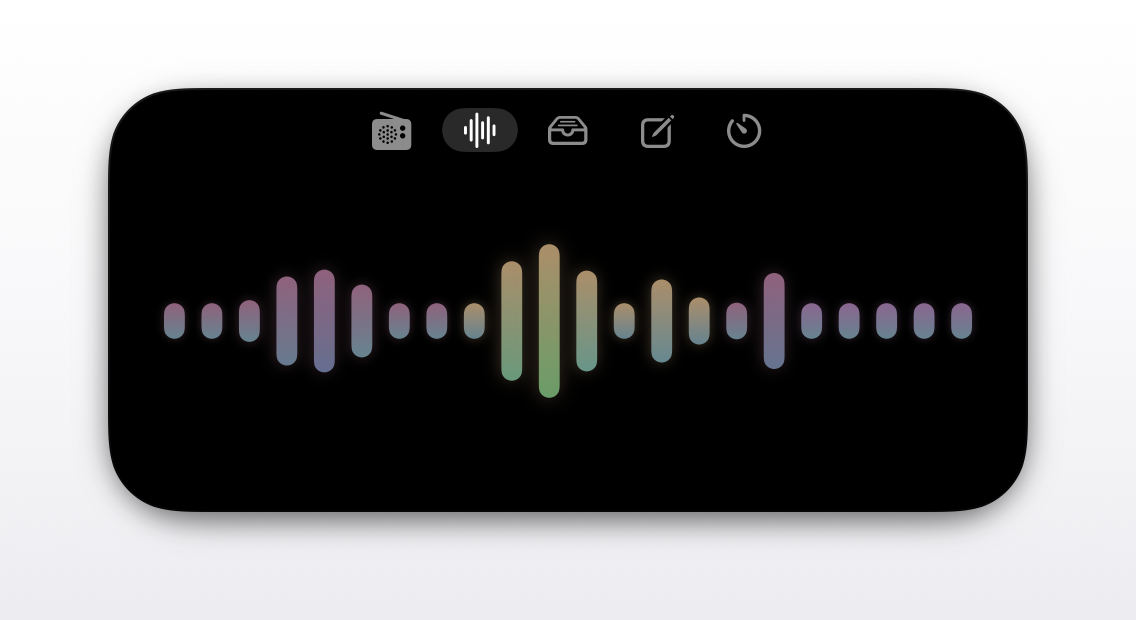
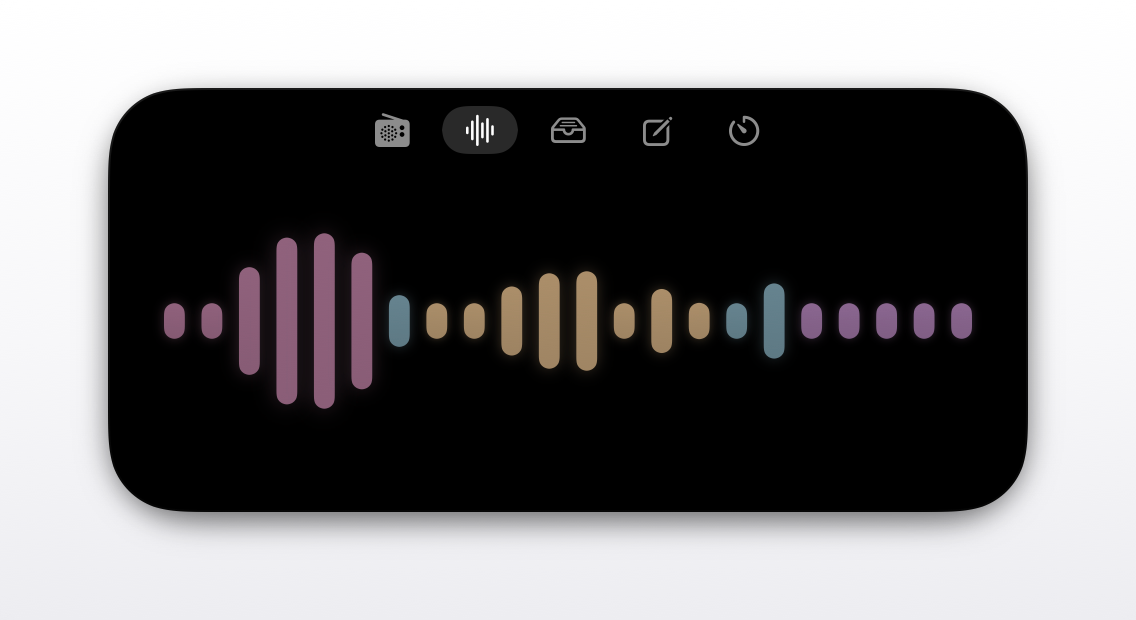
Take a bar's colour from its whole slice of sleeve, not the top half
The muting landed but the hues were still wrong, and badly: the One Piece
sleeve on Scott's phone — reds, oranges and greens — came out cyan, and Ado's
pink one came out blue.

Each bar elected two colours, one per half of its column, and drew from the
upper one. So whatever occupies the top of the artwork became the wave, and on
both of those sleeves that is sky. Running the two real covers through the
pipeline against the phone's own bars, six bars each:

  Wake up!      phone  86° 63° 33° 24° 27° 32°   (olive into orange)
                was   190° 190° 190° 190° 36° 190°
                now    80° 6° 6° 36° 36° 36°
  New Genesis   phone 316° 336° 340° 340° 336° 322°
                was   222° 222° 222° 352° 323° 323°
                now   222° 323° 323° 323° 323° 323°

One election over the whole column instead. The split was an attractive idea —
the bar mirrors its slice top to bottom — but it does not match the reference
either: a bar on the phone holds one hue from tip to foot, under 10° across its
whole height, while its saturation and light drain away. So the vertical run is
a drain, which `Bar` derives, and never a second elected colour.

Palette size stays at 4. Five and six were tried against the same two covers
and both pull Ado toward the blues and purples it does not have.

90 tests.

diff --git a/CoteDOs/NowPlaying/ArtworkColor.swift b/CoteDOs/NowPlaying/ArtworkColor.swift
@@ -518,19 +518,28 @@ enum ArtworkColor {
             return shadedStep(palette[winner].color, level: level)
         }
 
-        // Image rows run top-down, and so do the bars, so row 0 is the bar's
-        // top. Rows are derived lazily per requested count — see
-        // `CoverBarPalette`; the closure captures the finished stage-one
-        // assignment, so a row costs two vote passes, not a re-analysis.
+        // One election over the bar's *whole* column, not one per half.
+        //
+        // Splitting it was an attractive idea — the bar mirrors its slice of
+        // sleeve top to bottom — and it is wrong twice over. It hands the bar's
+        // body colour to whatever occupies the top of the artwork, so a sleeve
+        // with a sky, a letterbox or a bright title bar draws every bar in that
+        // colour: the One Piece sleeve here is red, orange and green, and it
+        // came out cyan. And it does not match the reference anyway. A bar on
+        // the iPhone holds one hue from tip to foot — measured across three
+        // sleeves, the hue moves under 10° over a bar's whole height while its
+        // saturation and brightness drain — so the vertical run is a *drain*,
+        // which `Bar` derives, not a second colour.
+        //
+        // Rows are derived lazily per requested count — see `CoverBarPalette`;
+        // the closure captures the finished stage-one assignment, so a row
+        // costs one vote pass, not a re-analysis.
         return CoverBarPalette { count in
             (0..<count).map { index in
                 let x0 = geometry.x0 + index * geometry.usableX / count
                 let x1 = max(x0 + 1, geometry.x0 + (index + 1) * geometry.usableX / count)
-                let midY = geometry.y0 + geometry.usableY / 2
-                return CoverBarPalette.Bar(
-                    top: barColor(x0: x0, x1: min(x1, geometry.x1), y0: geometry.y0, y1: max(geometry.y0 + 1, midY)),
-                    bottom: barColor(x0: x0, x1: min(x1, geometry.x1), y0: midY, y1: geometry.y1)
-                )
+                let color = barColor(x0: x0, x1: min(x1, geometry.x1), y0: geometry.y0, y1: geometry.y1)
+                return CoverBarPalette.Bar(color: color)
             }
         }
     }
@@ -573,11 +582,8 @@ enum ArtworkColor {
             (0..<count).map { index in
                 let x0 = geometry.x0 + index * geometry.usableX / count
                 let x1 = max(x0 + 1, geometry.x0 + (index + 1) * geometry.usableX / count)
-                let midY = geometry.y0 + geometry.usableY / 2
-                return CoverBarPalette.Bar(
-                    top: barColor(x0: x0, x1: min(x1, geometry.x1), y0: geometry.y0, y1: max(geometry.y0 + 1, midY)),
-                    bottom: barColor(x0: x0, x1: min(x1, geometry.x1), y0: midY, y1: geometry.y1)
-                )
+                let color = barColor(x0: x0, x1: min(x1, geometry.x1), y0: geometry.y0, y1: geometry.y1)
+                return CoverBarPalette.Bar(color: color)
             }
         }
     }

diff --git a/CoteDOsTests/WaveBarsSnapshotTests.swift b/CoteDOsTests/WaveBarsSnapshotTests.swift
@@ -116,11 +116,8 @@ final class WaveBarsSnapshotTests: XCTestCase {
             Color(hue: 0.55, saturation: 0.70, brightness: 0.80),
             Color(hue: 0.75, saturation: 0.65, brightness: 0.85),
         ]
-        let row = (0..<count).map { index -> CoverBarPalette.Bar in
-            let top = colors[index % colors.count]
-            // Every third column quantises to one colour top and bottom.
-            let bottom = index % 3 == 0 ? top : colors[(index + 1) % colors.count]
-            return CoverBarPalette.Bar(top: top, bottom: bottom)
+        let row = (0..<count).map { index in
+            CoverBarPalette.Bar(color: colors[index % colors.count])
         }
         return CoverBarPalette(bars: [count: row])
     }
@@ -156,17 +153,23 @@ final class WaveBarsSnapshotTests: XCTestCase {
         }
     }
 
-    /// Neighbouring bars over the same region of a cover quantise to the same
-    /// colour — that bundling is deliberate — so a column whose two halves
-    /// landed on one palette entry must still get a gradient, spread by
-    /// brightness, rather than reading as a flat slab.
-    func testASingleColourColumnStillGetsAGradientFoot() {
+    /// A bar draws as one colour drained toward its foot, never as two. The
+    /// drain is what keeps it from reading as a flat slab; a *second* colour
+    /// there is what made a sleeve with a sky paint cyan bars.
+    func testABarDrainsTowardItsFootRatherThanChangingColour() throws {
         let color = Color(hue: 0.55, saturation: 0.70, brightness: 0.80)
-        let flat = CoverBarPalette.Bar(top: color, bottom: color)
-        XCTAssertNotEqual(flat.foot, color, "a single-colour column must not render as one flat colour")
+        let bar = CoverBarPalette.Bar(color: color)
+        XCTAssertNotEqual(bar.foot, color, "a bar must not render as one flat colour")
 
-        let other = Color(hue: 0.08, saturation: 0.80, brightness: 0.90)
-        let twoTone = CoverBarPalette.Bar(top: color, bottom: other)
-        XCTAssertEqual(twoTone.foot, other, "a two-tone column keeps the cover's own second colour")
+        let ns = { (c: Color) -> (CGFloat, CGFloat) in
+            let n = NSColor(c).usingColorSpace(.deviceRGB)!
+            var h: CGFloat = 0, s: CGFloat = 0, b: CGFloat = 0, a: CGFloat = 0
+            n.getHue(&h, saturation: &s, brightness: &b, alpha: &a)
+            return (h, b)
+        }
+        let (bodyHue, bodyBrightness) = ns(bar.top)
+        let (footHue, footBrightness) = ns(bar.foot)
+        XCTAssertEqual(footHue, bodyHue, accuracy: 0.005, "the foot keeps the bar's hue")
+        XCTAssertLessThan(footBrightness, bodyBrightness, "the foot is the drained end")
     }
 }

diff --git a/CoteDOs/NowPlaying/CoverBarPalette.swift b/CoteDOs/NowPlaying/CoverBarPalette.swift
@@ -35,25 +35,23 @@ struct ArtworkAccents: Equatable {
 /// enough to do on first use.
 final class CoverBarPalette: Equatable {
     struct Bar: Equatable {
+        /// The one colour this bar's slice of sleeve elected.
         let top: Color
-        let bottom: Color
         /// `top` decomposed, so `WaveBarsView`'s per-frame foot work is
         /// arithmetic instead of a ColorSync round-trip (see `HSB`).
         let topHSB: HSB
-        /// What the bar's gradient actually ends on. Neighbouring bars over
-        /// the same region of the artwork quantise to the *same* colour —
-        /// that bundling is the point — so when a column's two halves land on
-        /// one palette entry the gradient is spread by brightness instead,
-        /// keeping the bar from reading as a flat slab. Derived here rather
-        /// than in the view because the palette is built once per cover, off
-        /// the main thread, and then cached.
+        /// What the bar's gradient ends on: the same colour, drained, never a
+        /// second one. A bar on the iPhone holds its hue from tip to foot and
+        /// only loses saturation and light on the way down — measured across
+        /// three sleeves, under 10° of hue over a whole bar. Derived here
+        /// rather than in the view because the palette is built once per cover,
+        /// off the main thread, and then cached.
         let foot: Color
 
-        init(top: Color, bottom: Color) {
-            self.top = top
-            self.bottom = bottom
-            self.topHSB = HSB(top)
-            self.foot = top == bottom ? HSB(bottom).brightnessScaled(0.92) : bottom
+        init(color: Color) {
+            self.top = color
+            self.topHSB = HSB(color)
+            self.foot = HSB(color).brightnessScaled(0.92)
         }
     }
 

diff --git a/CoteDOsTests/ArtworkColorTests.swift b/CoteDOsTests/ArtworkColorTests.swift
@@ -210,7 +210,7 @@ final class ArtworkColorTests: XCTestCase {
                 for index in 0..<count {
                     let bar = try XCTUnwrap(palette.bar(forBarAt: index, total: count),
                                             "\(name): no bar at \(index)/\(count)")
-                    for (edge, color) in [("top", bar.top), ("bottom", bar.bottom), ("foot", bar.foot)] {
+                    for (edge, color) in [("body", bar.top), ("foot", bar.foot)] {
                         let (_, saturation, brightness) = try hsb(color)
                         let where_ = "\(name) bar \(index)/\(count) \(edge)"
                         XCTAssertLessThanOrEqual(saturation, 0.40,

diff --git a/CHANGELOG.md b/CHANGELOG.md
@@ -69,6 +69,16 @@ the README never mentioned the difference.
     through the ceiling the rest of the app used, and nothing checked. It does
     now — a test holds every bar of four very different synthetic sleeves inside
     the measured band.
+  - **A bar takes its colour from its whole slice of sleeve, not the top half of
+    it.** Each bar used to elect two colours, one per half, and draw from the
+    upper one — so anything occupying the top of the artwork became the wave. A
+    One Piece sleeve of reds, oranges and greens came out cyan, because that is
+    where its sky is, and Ado's pink sleeve came out blue. Running both real
+    covers through the pipeline against the phone's own bars: the phone reads
+    olive → orange, and we now read olive → red → orange where we read cyan six
+    times. A bar holds one hue from tip to foot on the phone — under 10° across
+    its whole height — so the vertical run is a drain, not a second colour, and
+    it is derived rather than elected.
 - **One wave at three sizes.** The pill, the spectrum page and the fullscreen
   takeover are one continuous run that travels and grows, not three renderers
   that hand off to each other. Widening the pill's wave now gives you fewer,
